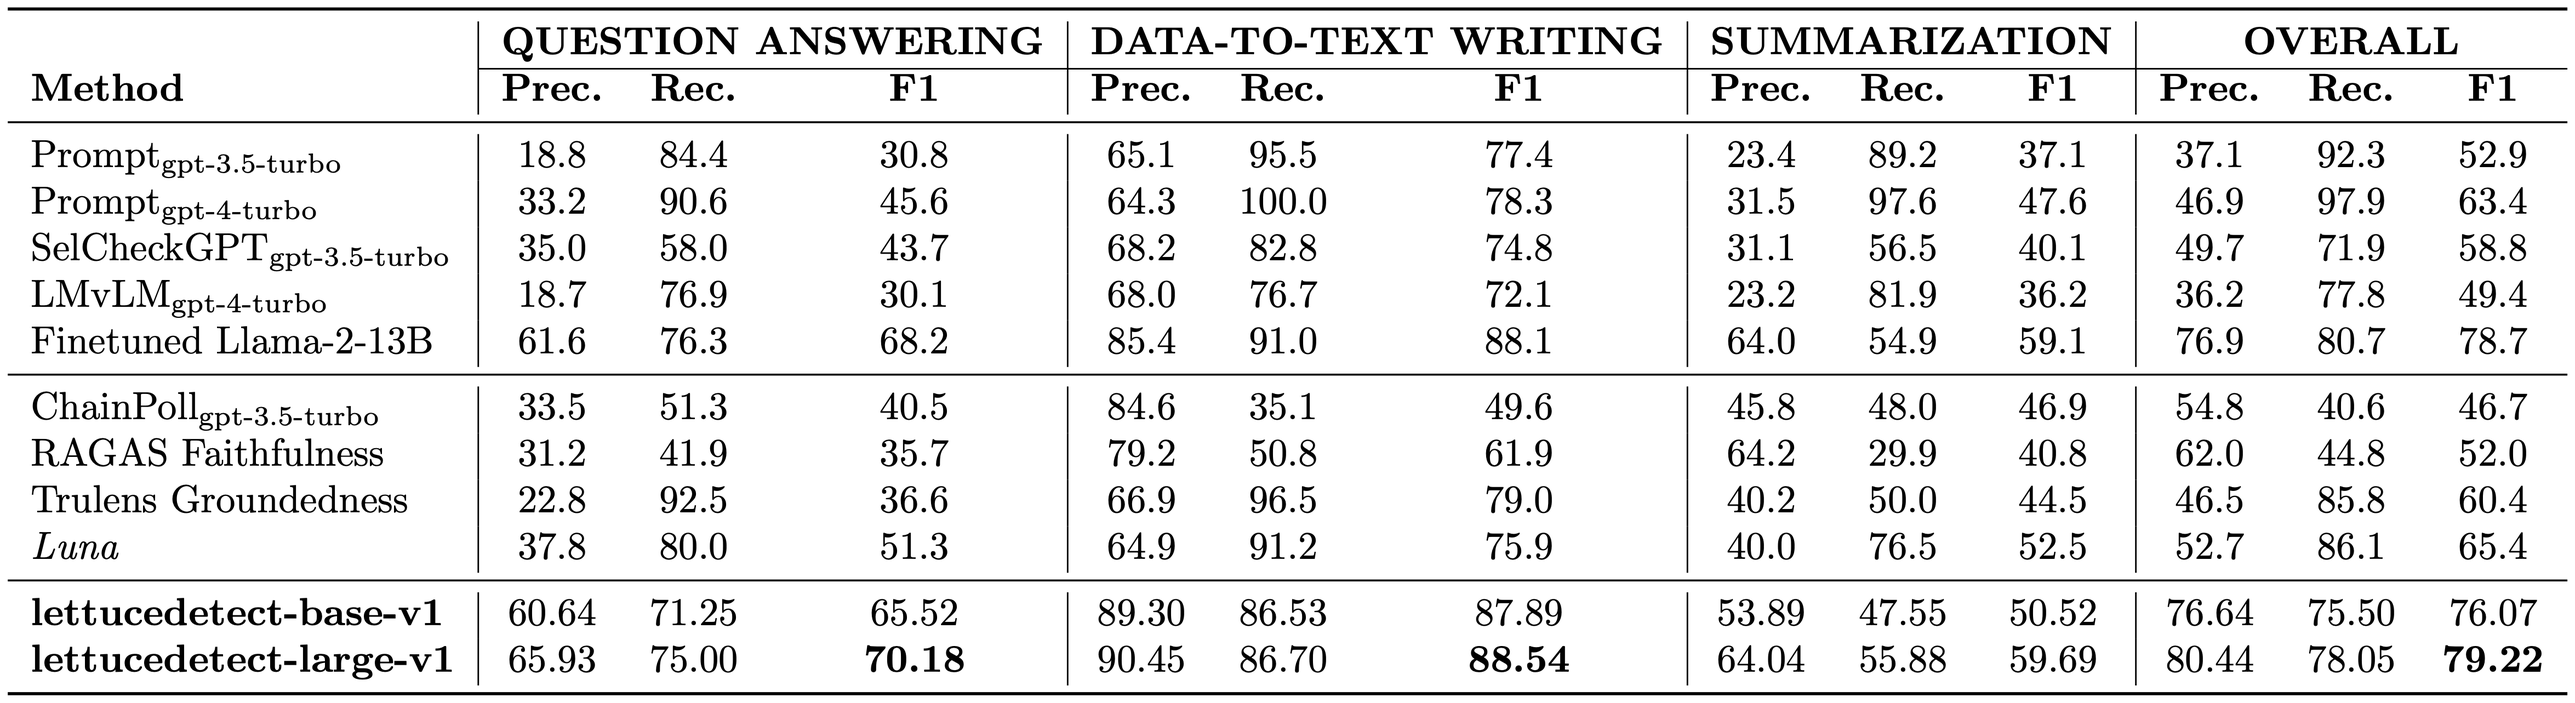
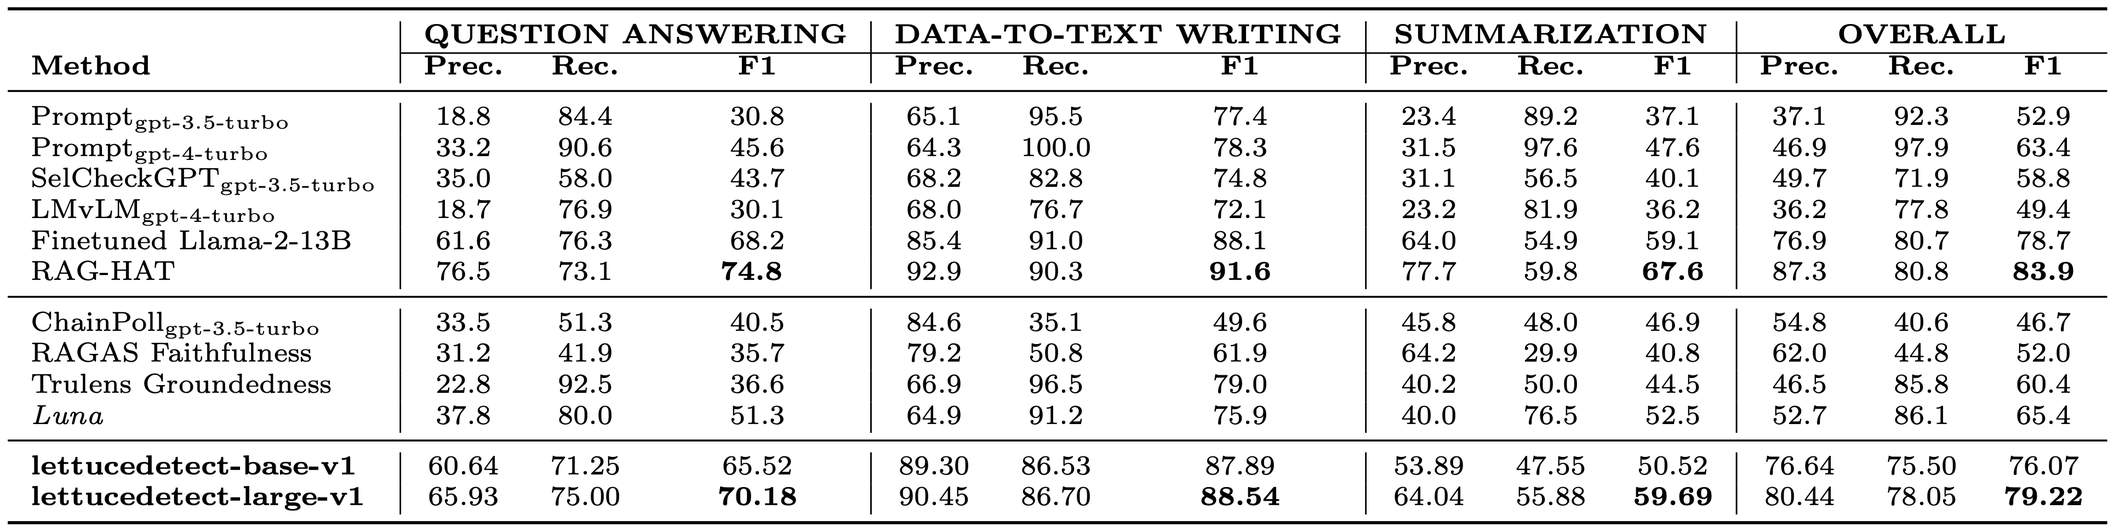
New readme, changed token level inference

Changed region(s): [[0.0, 0.0, 0.9985, 0.9887]]

diff --git a/lettucedetect/models/inference.py b/lettucedetect/models/inference.py
@@ -103,7 +103,25 @@ class TransformerDetector(BaseDetector):
         token_preds = torch.where(labels == -100, labels, token_preds)
 
         if output_format == "tokens":
-            return token_preds.cpu().numpy().tolist()
+            # return token probabilities for each token (with the tokens as well, if not -100)
+            token_probs = []
+            input_ids = encoding["input_ids"][
+                0
+            ]  # Get the input_ids tensor from the encoding dict
+            for i, (token, pred, prob) in enumerate(
+                zip(input_ids, token_preds, probabilities)
+            ):
+                if not labels[i].item() == -100:
+                    token_probs.append(
+                        {
+                            "token": self.tokenizer.decode([token]),
+                            "pred": pred.item(),
+                            "prob": prob[
+                                1
+                            ].item(),  # Get probability for class 1 (hallucination)
+                        }
+                    )
+            return token_probs
         elif output_format == "spans":
             # Compute the answer's character offset (the first token of the answer).
             if answer_start_token < offsets.size(0):

diff --git a/README.md b/README.md
@@ -4,14 +4,20 @@
   <img src="https://github.com/KRLabsOrg/LettuceDetect/blob/main/assets/lettuce_detective.png?raw=true" alt="LettuceDetect Logo" width="400"/>
 </p>
 
-LettuceDetect is a hallucination detection tool that is designed to be used in RAG systems to help identify parts of the answer that are not supported by the given context. We trained and evaluated the model on the [RAGTruth](https://aclanthology.org/2024.acl-long.585/) (Niu et al., 2024) dataset.
+LettuceDetect is a lightweight and efficient tool for detecting hallucinations in Retrieval-Augmented Generation (RAG) systems. It identifies unsupported parts of an answer by comparing it to the provided context. The tool is trained and evaluated on the [RAGTruth](https://aclanthology.org/2024.acl-long.585/) dataset and leverages [ModernBERT](https://github.com/AnswerDotAI/ModernBERT) for long-context processing, making it ideal for tasks requiring extensive context windows.
 
-We trained a token-level model based on [ModernBERT](https://github.com/AnswerDotAI/ModernBERT). ModernBERT is a modern and fast transformer model that is specifically designed to have longer context windows which is crucial in hallucination detection systems because the model needs to see the context in which the answer is generated and the answer itself. This can be too long to handle with traditional encoder based models. Because of this, most models in the literature are based on longer context LLMs like GPT-4.
-Our models are inspired from the [Luna](https://aclanthology.org/2025.coling-industry.34/) paper which used a **DeBERTA-large** encoder model and similar token-level approach.
+Our models are inspired from the [Luna](https://aclanthology.org/2025.coling-industry.34/) paper which is an encoder-based model and uses a similar token-level approach.
 
-Our models currently achieve **SOTA results** on the RAGTruth dataset. We release the code, the model and the tool under the MIT license.
+## Highlights
 
-## Get going
+- LettuceDetect addresses two critical limitations of existing hallucination detection models:
+  - Context window constraints of traditional encoder-based methods
+  - Computational inefficiency of LLM-based approaches
+- Our models currently **outperforms** all other encoder-based and prompt-based models on the RAGTruth dataset and are significantly faster and smaller 
+- Achieves higher score than some fine-tuned LLMs e.g. LLAMA-2-13B presented in [RAGTruth](https://aclanthology.org/2024.acl-long.585/), coming up just short of the LLM fine-tuned in the [RAG-HAT paper](https://aclanthology.org/2024.emnlp-industry.113.pdf)
+- We release the code, the model and the tool under the **MIT license**
+
+## Get going  
 
 ### Features
 
@@ -60,9 +66,11 @@ print("Predictions:", predictions)
 # Predictions: [{'start': 31, 'end': 71, 'confidence': 0.9944414496421814, 'text': ' The population of France is 69 million.'}]
 ```
 
-## Details
+## Performance
 
-We evaluate our model on the test set of the [RAGTruth](https://aclanthology.org/2024.acl-long.585/) dataset. We evaluate both example-level (can we detect that a given answer contains hallucinations) and span-level (can we detect which parts of the answer are hallucinated).
+**Example level results**
+
+We evaluate our model on the test set of the [RAGTruth](https://aclanthology.org/2024.acl-long.585/) dataset. Our large model, **lettucedetect-large-v1**, achieves an overall F1 score of 79.22%, outperforming prompt-based methods like GPT-4 (63.4%) and encoder-based models like [Luna](https://aclanthology.org/2025.coling-industry.34.pdf) (65.4%). It also surpasses fine-tuned LLAMA-2-13B (78.7%) (presented in [RAGTruth](https://aclanthology.org/2024.acl-long.585/)) and is competitive with the SOTA fine-tuned LLAMA-3-8B (83.9%) (presented in the [RAG-HAT paper](https://aclanthology.org/2024.emnlp-industry.113.pdf)). Overall, **lettucedetect-large-v1** and **lettucedect-base-v1** are very performant models, while being very effective in inference settings.
 
 The results on the example-level can be seen in the table below.
 
@@ -70,19 +78,16 @@ The results on the example-level can be seen in the table below.
   <img src="https://github.com/KRLabsOrg/LettuceDetect/blob/main/assets/example_level_lettucedetect.png?raw=true" alt="Example-level Results" width="800"/>
 </p>
 
-Our model consistently achieves the highest scores across all data types and overall (**lettucedetect-large-v1**). We beat the previous best model (Finetuned LLAMA-2-13B) while being significantly smaller and faster (our models are 150M and 396M parameters, respectively, and able to process 30-60 examples per second on a single A100 GPU). 
+**Span-level results**
 
-The other non-prompt based model is [Luna](https://aclanthology.org/2025.coling-industry.34.pdf) which is also a token-level model but uses a DeBERTA-large encoder model. Our model is overall better that the Luna architecture (65.4 vs 79.22 F1 score on the _overall_ data type).
-
-The span-level results can be seen in the table below.
+At the span level, our model achieves the best scores across all data types, significantly outperforming previous models. The results can be seen in the table below. Note that here we don't compare to models, like [RAG-HAT](https://aclanthology.org/2024.emnlp-industry.113.pdf), since they have no span-level evaluation presented.
 
 <p align="center">
   <img src="https://github.com/KRLabsOrg/LettuceDetect/blob/main/assets/span_level_lettucedetect.png?raw=true" alt="Span-level Results" width="800"/>
 </p>
 
-Our model achieves the best scores throughout each data-type and also overall, beating the previous best model (Finetuned LLAMA-2-13B) by a significant margin.
 
-### How does it work?
+## How does it work?
 
 The model is a token-level model that predicts whether a token is hallucinated or not. The model is trained to predict the tokens that are hallucinated in the answer given the context and the question.
 
@@ -122,7 +127,8 @@ python scripts/train.py \
     --model_name answerdotai/ModernBERT-base \
     --output_dir outputs/hallucination_detector \
     --batch_size 4 \
-    --epochs 6
+    --epochs 6 \
+    --learning_rate 1e-5
 ```
 
 We trained our models for 6 epochs with a batch size of 8 on a single A100 GPU.
@@ -154,7 +160,11 @@ The model can output predictions in two formats:
 
 ### Token Format
 ```python
-[0, 0, 0, 1, 1, 0]  # 0: supported, 1: hallucinated
+[{
+    'token': str,       # The token
+    'pred': int,        # 0: supported, 1: hallucinated
+    'prob': float       # Model's confidence (0-1)
+}]
 ```
 
 ## Streamlit Demo
